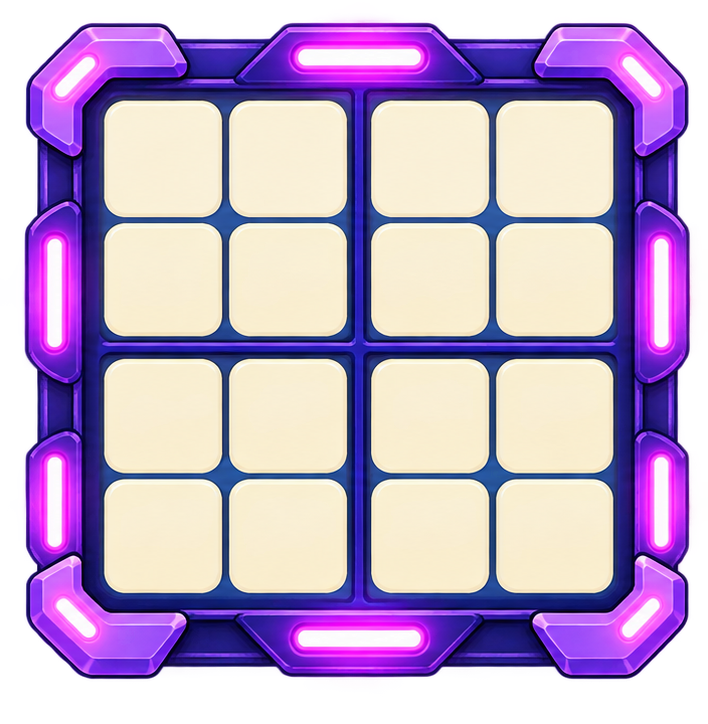
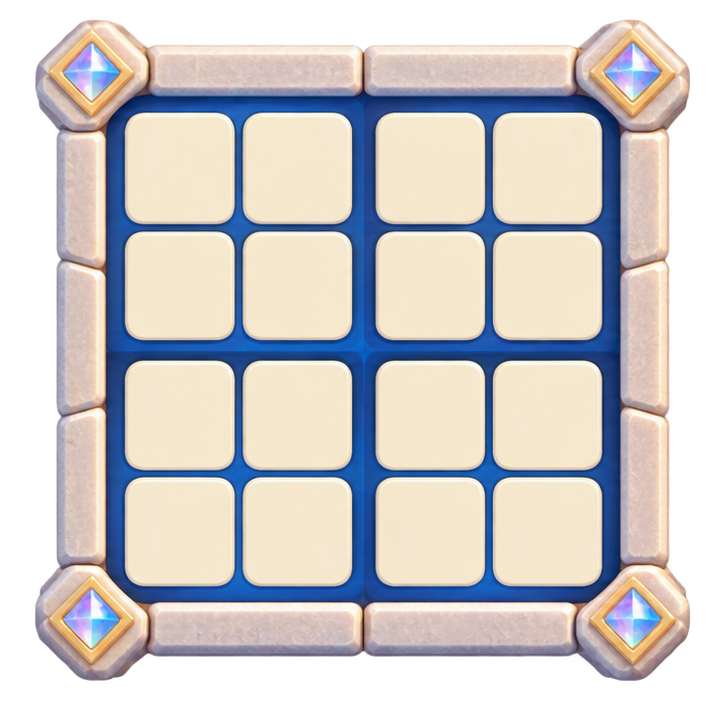
Replace Sudoku grid frames with the new stone-and-crystal artwork
New 4x4, 6x6 and 9x9 frames are used both in the game and in the size
picker thumbnails. Cell geometry was re-measured from the new images and
the rectangular box-shadow was replaced with a drop-shadow that follows
the frame's transparent corners. The 6x6 frame now has 2x3 block dividers
matching the game rules.

diff --git a/app/sudoku/sudoku.css b/app/sudoku/sudoku.css
@@ -4,7 +4,7 @@
 .sudoku-page{--s-purple:#511a79;--s-purple2:#7041c3;--s-cyan:#08c9c7;--s-pale:#eaffff;--s-lav:#f5edff;min-height:100dvh;background:radial-gradient(circle at 80% 12%,#e6ffff 0,transparent 32%),radial-gradient(circle at 12% 66%,#f2e7ff 0,transparent 35%),#fff;color:var(--s-purple);overflow-x:hidden}.sudoku-top{height:68px;display:grid;grid-template-columns:1fr auto 1fr;align-items:center;padding:0 max(16px,calc((100vw - 1180px)/2));border-bottom:1px solid #ece4f0;background:rgba(255,255,255,.94);position:sticky;top:0;z-index:30}.sudoku-top>button{justify-self:start;border:0;background:none;color:var(--s-purple);font-weight:1000;font-size:15px;cursor:pointer}.sudoku-top>b{font-size:20px}.sudoku-top>span:last-child{justify-self:end;color:#806c91;font-weight:900}.sudoku-intro{width:min(1040px,calc(100% - 36px));margin:0 auto;padding:54px 0 22px;display:grid;grid-template-columns:1.2fr .8fr;gap:30px;align-items:center}.sudoku-title{padding:38px 42px;border:1px solid #ede3f2;border-radius:36px;background:rgba(255,255,255,.82);box-shadow:0 20px 50px rgba(74,30,109,.08)}.sudoku-kicker{margin:0 0 8px;font-size:12px;letter-spacing:.13em;font-weight:1000;color:#8c73a1}.sudoku-title h1,.game-heading h1{font-size:clamp(42px,5vw,64px);line-height:1;margin:0;color:var(--s-purple);letter-spacing:-.035em}.sudoku-title h2{font-size:22px;margin:15px 0 8px}.sudoku-title>p:not(.sudoku-kicker){font-size:18px;line-height:1.5;color:#766781;max-width:520px}.rules-link{border:0;background:var(--s-lav);color:var(--s-purple);border-radius:22px;padding:12px 18px;font-weight:1000;cursor:pointer}.crystal-visual{height:300px;position:relative}.crystal-grid{position:absolute;right:30px;top:0;width:240px;height:240px;display:grid;grid-template-columns:repeat(4,1fr);transform:rotate(6deg);filter:drop-shadow(0 12px 18px rgba(7,188,193,.16))}.crystal-grid i{border:2px solid #10cbd0;background:rgba(255,255,255,.58)}.crystal-gem{position:absolute;right:90px;bottom:0;width:128px;height:140px;display:grid;place-items:center;background:linear-gradient(145deg,#bb8cff,#7440ce 52%,#40158e);clip-path:polygon(50% 0,77% 18%,100% 54%,80% 87%,50% 100%,17% 85%,0 50%,22% 17%);filter:drop-shadow(0 14px 16px rgba(74,29,146,.25))}.crystal-gem span{color:#fff;font-size:60px}.size-picker{width:min(1040px,calc(100% - 36px));margin:0 auto;padding:20px 0 70px;display:grid;grid-template-columns:repeat(3,1fr);gap:16px}.size-card{border:1px solid #e9def0;border-radius:26px;background:#fff;padding:20px;box-shadow:0 12px 28px rgba(68,29,103,.07);display:grid;grid-template-rows:100px 1fr auto}.size-card h3{font-size:23px;margin:5px 0;color:var(--s-purple)}.size-card p{font-size:13px;line-height:1.45;color:#7d7086}.size-card>div>small{font-weight:1000;color:#0a9795}.mini-sudoku{width:84px;height:84px;display:block;margin:0 auto}.mini-sudoku img{width:100%;height:100%;object-fit:contain}
 .sudoku-intro-logo{display:block;margin:0 auto 14px;width:132px}.size-actions{display:flex;gap:7px}.size-actions button{flex:1;min-height:42px;border:1px solid #d8c9e5;border-radius:21px;background:#fff;color:var(--s-purple);font-weight:1000;cursor:pointer}.size-actions .start,.sudoku-primary{border:0;background:linear-gradient(90deg,#08d2c8,#19c4e0);color:#173450}.sudoku-overlay{position:fixed;inset:0;z-index:70;background:rgba(62,22,86,.22);backdrop-filter:blur(8px);display:grid;place-items:center;padding:18px;overflow:auto}.how-card,.complete-card{width:min(680px,100%);border:1px solid #eadff0;border-radius:34px;background:#fff;padding:34px 40px;text-align:center;box-shadow:0 28px 80px rgba(65,25,91,.2)}.how-card h2,.complete-card h2{font-size:34px;margin:4px 0 12px}.how-card>p:not(.sudoku-kicker),.complete-card>p{color:#756981;line-height:1.5}.how-demo{display:grid;grid-template-columns:repeat(5,1fr);gap:8px;margin:24px 0}.demo-cell{aspect-ratio:1;border:1px solid #d8cde0;border-radius:13px;display:flex;flex-direction:column;align-items:center;justify-content:center;background:#fff;gap:4px}.demo-cell b{font-size:22px}.demo-cell small{font-size:9px;color:#806f8a}.demo-cell.given{background:#f0e8f7;color:#48156f}.demo-cell.selected{border:3px solid #08c9c7;background:#e9fffd}.demo-cell.player{color:#078f96}.demo-cell.conflict{border:2px solid #c64175;background:#fff1f6}.calm-note{font-weight:900;color:#604675!important}.sudoku-primary{width:100%;min-height:52px;border-radius:26px;font-weight:1000;cursor:pointer}.complete-card>button:not(.sudoku-primary){width:100%;min-height:46px;margin-top:8px;border:1px solid #ded1e7;border-radius:23px;background:#fff;color:var(--s-purple);font-weight:1000;cursor:pointer}.complete-gem{width:110px;height:120px;margin:-10px auto 16px;display:grid;place-items:center;font-size:54px;color:#fff;background:linear-gradient(145deg,#bd8dff,#7040cb 55%,#3d1489);clip-path:polygon(50% 0,78% 18%,100% 53%,79% 87%,50% 100%,17% 86%,0 50%,21% 18%);animation:crystal-glow 1.5s ease-in-out infinite alternate}
 
-.sudoku-game{width:min(1180px,calc(100% - 28px));margin:0 auto;padding:20px 0 32px;display:grid;grid-template-columns:minmax(320px,680px) minmax(260px,350px);grid-template-areas:"heading heading" "grid controls";gap:14px 28px;justify-content:center}.game-heading{grid-area:heading;text-align:center}.game-heading h1{font-size:38px}.game-message{display:inline-block;min-height:39px;margin:10px 0 0;padding:9px 16px;border-radius:20px;background:#effffc;color:#3f3a58;font-weight:900}.game-message.warning{background:#fff0f5;color:#9a315d}.grid-wrap{grid-area:grid;display:flex;justify-content:center;align-items:start}.sudoku-grid{width:min(100%,calc(100dvh - 230px));display:grid;box-sizing:border-box;background-repeat:no-repeat;box-shadow:0 18px 44px rgba(65,25,91,.14);touch-action:manipulation;user-select:none}.sudoku-cell{min-width:0;min-height:0;position:relative;border:0;border-radius:14%;background:transparent;color:#3a2154;padding:0;display:grid;place-items:center;cursor:pointer;font-family:inherit}.sudoku-cell strong{font-size:clamp(16px,3.6vw,34px);line-height:1}.sudoku-cell.given strong{color:#241238;font-weight:1000}.sudoku-cell.related{background:rgba(122,66,209,.12)}.sudoku-cell.same-number{background:rgba(8,201,199,.16)}.sudoku-cell.selected{z-index:2;background:rgba(8,201,199,.22);box-shadow:inset 0 0 0 3px #08c9c7,0 0 12px rgba(8,201,199,.55)}.sudoku-cell.hinted{animation:hint-glow 1.1s ease}.sudoku-cell.conflict,.sudoku-cell.needs-look{z-index:3;background:rgba(198,65,117,.16);box-shadow:inset 0 0 0 3px #c64075}.conflict-mark{position:absolute;right:6%;top:4%;width:17px;height:17px;border-radius:50%;display:grid;place-items:center;background:#ac2c60;color:#fff;font-size:11px;font-weight:1000}.cell-notes{width:100%;height:100%;display:grid;align-items:center;justify-items:center;padding:5%;color:#5b4a76}.cell-notes i{font-size:clamp(7px,1.25vw,13px);font-style:normal}.sudoku-controls{grid-area:controls;align-self:start}.number-pad{display:grid;grid-template-columns:repeat(3,1fr);gap:8px;margin-bottom:12px}.number-pad button{aspect-ratio:1;border:1px solid #d9cde3;border-radius:18px;background:#fff;color:var(--s-purple);font-size:27px;font-weight:1000;cursor:pointer}.number-pad button:hover,.number-pad button:focus-visible{border-color:#08c9c7;background:#eaffff}.number-pad button.complete-number{opacity:.48}.sudoku-toolbar{display:grid;grid-template-columns:1fr 1fr;gap:7px}.sudoku-toolbar button{min-height:45px;border:1px solid #e2d6e9;border-radius:18px;background:#fff;color:#5f4e69;font-weight:900;cursor:pointer}.sudoku-toolbar button.active{background:#e3fffb;border:2px solid #08c9c7;color:#087b7b}.sudoku-toolbar button:disabled{opacity:.36;cursor:default}.sudoku-loading{display:grid;place-items:center;align-content:center}.crystal-spinner{font-size:100px;color:#7040cb;animation:crystal-glow 1.2s ease-in-out infinite alternate}.sudoku-loading p{font-weight:900;color:#756781}
+.sudoku-game{width:min(1180px,calc(100% - 28px));margin:0 auto;padding:20px 0 32px;display:grid;grid-template-columns:minmax(320px,680px) minmax(260px,350px);grid-template-areas:"heading heading" "grid controls";gap:14px 28px;justify-content:center}.game-heading{grid-area:heading;text-align:center}.game-heading h1{font-size:38px}.game-message{display:inline-block;min-height:39px;margin:10px 0 0;padding:9px 16px;border-radius:20px;background:#effffc;color:#3f3a58;font-weight:900}.game-message.warning{background:#fff0f5;color:#9a315d}.grid-wrap{grid-area:grid;display:flex;justify-content:center;align-items:start}.sudoku-grid{width:min(100%,calc(100dvh - 230px));display:grid;box-sizing:border-box;background-repeat:no-repeat;filter:drop-shadow(0 14px 18px rgba(65,25,91,.22));touch-action:manipulation;user-select:none}.sudoku-cell{min-width:0;min-height:0;position:relative;border:0;border-radius:14%;background:transparent;color:#3a2154;padding:0;display:grid;place-items:center;cursor:pointer;font-family:inherit}.sudoku-cell strong{font-size:clamp(16px,3.6vw,34px);line-height:1}.sudoku-cell.given strong{color:#241238;font-weight:1000}.sudoku-cell.related{background:rgba(122,66,209,.12)}.sudoku-cell.same-number{background:rgba(8,201,199,.16)}.sudoku-cell.selected{z-index:2;background:rgba(8,201,199,.22);box-shadow:inset 0 0 0 3px #08c9c7,0 0 12px rgba(8,201,199,.55)}.sudoku-cell.hinted{animation:hint-glow 1.1s ease}.sudoku-cell.conflict,.sudoku-cell.needs-look{z-index:3;background:rgba(198,65,117,.16);box-shadow:inset 0 0 0 3px #c64075}.conflict-mark{position:absolute;right:6%;top:4%;width:17px;height:17px;border-radius:50%;display:grid;place-items:center;background:#ac2c60;color:#fff;font-size:11px;font-weight:1000}.cell-notes{width:100%;height:100%;display:grid;align-items:center;justify-items:center;padding:5%;color:#5b4a76}.cell-notes i{font-size:clamp(7px,1.25vw,13px);font-style:normal}.sudoku-controls{grid-area:controls;align-self:start}.number-pad{display:grid;grid-template-columns:repeat(3,1fr);gap:8px;margin-bottom:12px}.number-pad button{aspect-ratio:1;border:1px solid #d9cde3;border-radius:18px;background:#fff;color:var(--s-purple);font-size:27px;font-weight:1000;cursor:pointer}.number-pad button:hover,.number-pad button:focus-visible{border-color:#08c9c7;background:#eaffff}.number-pad button.complete-number{opacity:.48}.sudoku-toolbar{display:grid;grid-template-columns:1fr 1fr;gap:7px}.sudoku-toolbar button{min-height:45px;border:1px solid #e2d6e9;border-radius:18px;background:#fff;color:#5f4e69;font-weight:900;cursor:pointer}.sudoku-toolbar button.active{background:#e3fffb;border:2px solid #08c9c7;color:#087b7b}.sudoku-toolbar button:disabled{opacity:.36;cursor:default}.sudoku-loading{display:grid;place-items:center;align-content:center}.crystal-spinner{font-size:100px;color:#7040cb;animation:crystal-glow 1.2s ease-in-out infinite alternate}.sudoku-loading p{font-weight:900;color:#756781}
 
 @keyframes crystal-glow{to{filter:drop-shadow(0 0 18px rgba(97,52,190,.5));transform:translateY(-5px)}}@keyframes hint-glow{50%{background:#d5fff8;box-shadow:inset 0 0 0 5px #08c9c7,0 0 22px #8a62da}}
 @media(max-width:780px){.sudoku-top{height:58px;padding:0 10px}.sudoku-top>button span{display:none}.sudoku-top>b{font-size:16px}.sudoku-intro{display:block;padding-top:22px}.sudoku-title{padding:26px 22px;border-radius:28px}.sudoku-title h1{font-size:42px}.sudoku-title h2{font-size:18px}.crystal-visual{display:none}.size-picker{grid-template-columns:1fr;padding-top:5px}.size-card{grid-template-columns:78px 1fr;grid-template-rows:auto auto;padding:15px;gap:0 12px}.size-card .mini-sudoku{width:70px;height:70px;grid-row:1/3}.size-card h3{font-size:19px;margin:3px 0}.size-card p{margin:4px 0 9px}.size-actions{grid-column:2}.how-card,.complete-card{padding:25px 18px}.how-demo{grid-template-columns:repeat(3,1fr)}.sudoku-game{width:calc(100% - 12px);padding:9px 0 18px;display:flex;flex-direction:column;gap:7px}.game-heading h1{font-size:27px}.game-heading .sudoku-kicker{display:none}.game-message{font-size:12px;margin-top:5px;min-height:32px;padding:7px 11px}.grid-wrap{width:100%}.sudoku-grid{width:min(100%,calc(100dvh - 315px));min-width:280px}.sudoku-cell strong{font-size:clamp(20px,7vw,34px)}.sudoku-controls{width:100%}.number-pad{grid-template-columns:repeat(9,1fr);gap:4px;margin:1px 0 7px}.number-pad button{aspect-ratio:auto;min-height:42px;border-radius:12px;font-size:20px}.sudoku-toolbar{grid-template-columns:repeat(3,1fr);gap:5px}.sudoku-toolbar button{min-height:40px;border-radius:14px;font-size:11px;padding:2px}.cell-notes i{font-size:clamp(6px,2.1vw,10px)}}

diff --git a/app/sudoku/frameGeometry.ts b/app/sudoku/frameGeometry.ts
@@ -10,24 +10,24 @@ type FrameGeometry = { image: string; imgW: number; imgH: number; col: Axis; row
 export const FRAME_GEOMETRY: Record<SudokuSize, FrameGeometry> = {
   4: {
     image: "/sudoku-frame-4x4.png",
-    imgW: 708,
+    imgW: 707,
     imgH: 724,
-    col: { margin1: 114, margin2: 104, cell: 98.5, smallGap: 26, bigGap: 44, blockDim: 2 },
-    row: { margin1: 99, margin2: 131, cell: 114, smallGap: 6.5, bigGap: 23, blockDim: 2 },
+    col: { margin1: 128, margin2: 106, cell: 105.3, smallGap: 12, bigGap: 28, blockDim: 2 },
+    row: { margin1: 117, margin2: 141, cell: 102, smallGap: 15, bigGap: 28, blockDim: 2 },
   },
   6: {
     image: "/sudoku-frame-6x6.png",
-    imgW: 724,
+    imgW: 721,
     imgH: 724,
-    col: { margin1: 90, margin2: 96, cell: 84.2, smallGap: 6, bigGap: 9, blockDim: 3 },
-    row: { margin1: 84, margin2: 103, cell: 85.2, smallGap: 3.3, bigGap: 8, blockDim: 2 },
+    col: { margin1: 111, margin2: 110, cell: 72.3, smallGap: 10.5, bigGap: 24, blockDim: 3 },
+    row: { margin1: 108, margin2: 115, cell: 69.8, smallGap: 11.7, bigGap: 23.5, blockDim: 2 },
   },
   9: {
     image: "/sudoku-frame-9x9.png",
-    imgW: 722,
+    imgW: 717,
     imgH: 724,
-    col: { margin1: 79, margin2: 86, cell: 57.8, smallGap: 3.2, bigGap: 9, blockDim: 3 },
-    row: { margin1: 71, margin2: 97, cell: 57.9, smallGap: 3, bigGap: 8.5, blockDim: 3 },
+    col: { margin1: 105, margin2: 103, cell: 46.4, smallGap: 8.8, bigGap: 19, blockDim: 3 },
+    row: { margin1: 104, margin2: 115, cell: 45.6, smallGap: 9.5, bigGap: 19, blockDim: 3 },
   },
 };
 
